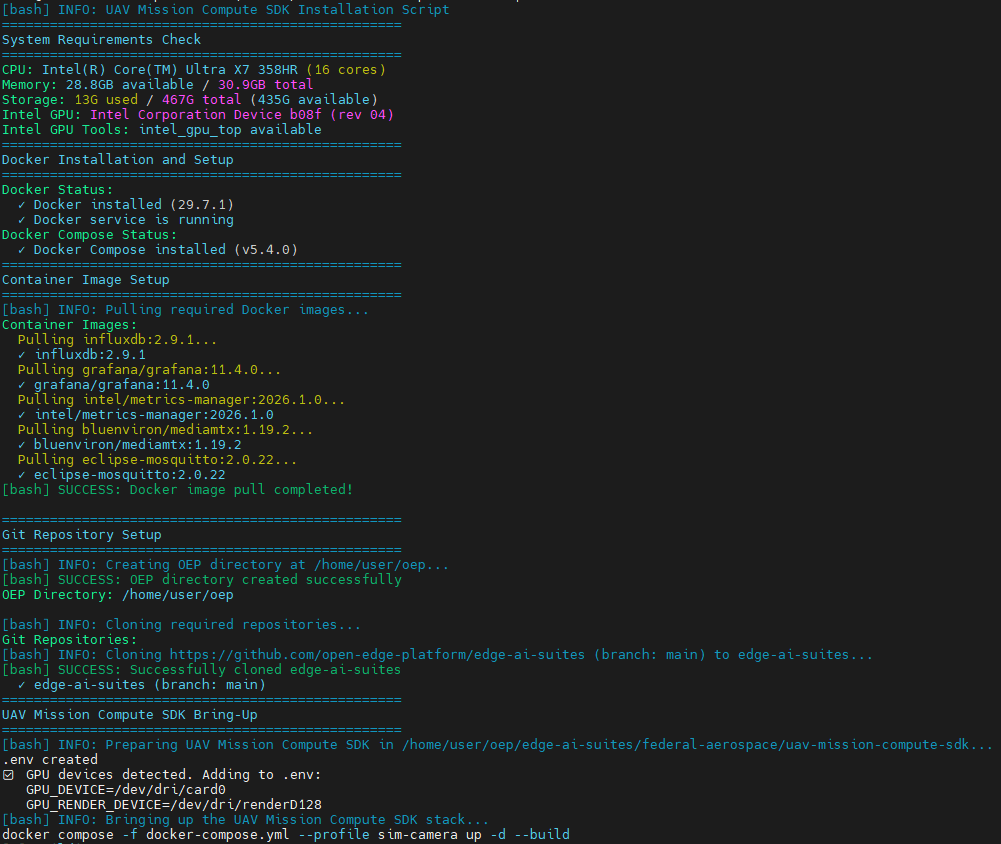
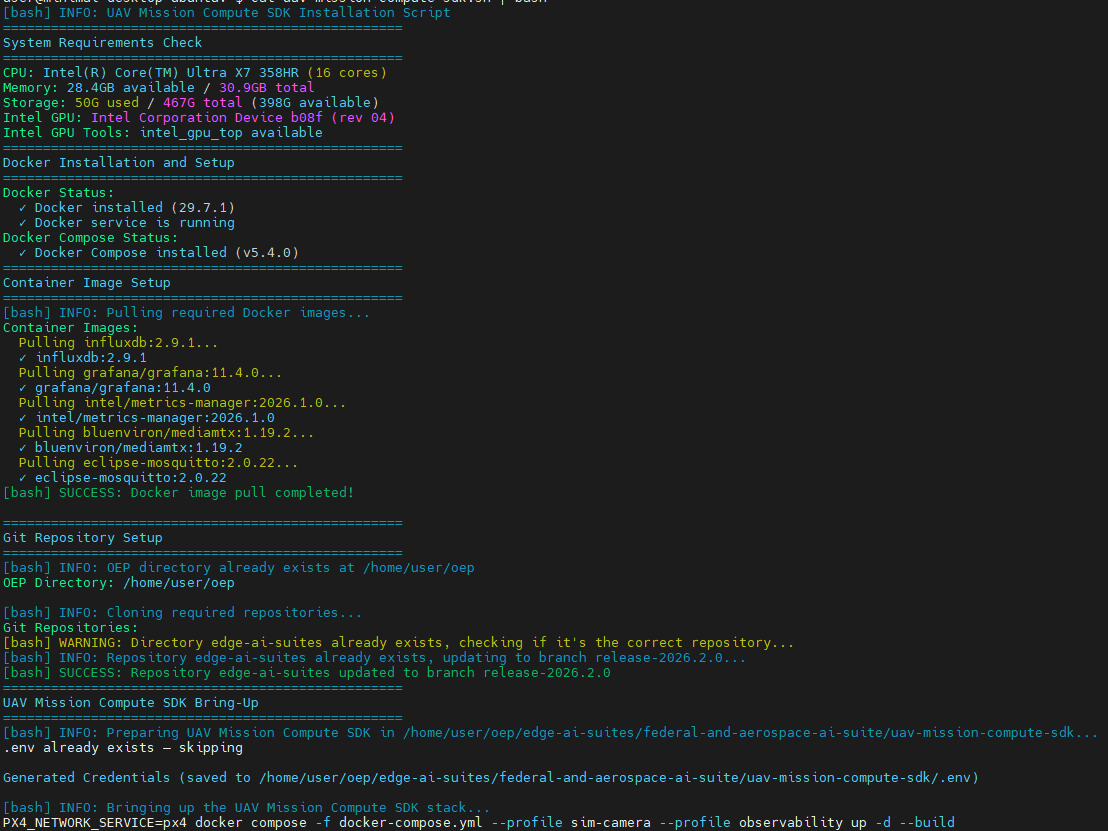
UAV SDK : Update paths in SDK doc/script (#3869)

Changed region(s): [[0.0, 0.0, 0.991, 1.0]]

diff --git a/federal-and-aerospace-ai-suite/uav-mission-compute-sdk/infra/bridges/companion/companion_bridge.py b/federal-and-aerospace-ai-suite/uav-mission-compute-sdk/infra/bridges/companion/companion_bridge.py
@@ -312,6 +312,15 @@ def rest_telemetry():
     return jsonify(_state)
 
 
+@rest_app.route("/state", methods=["GET", "POST"])
+def rest_state():
+    """Backward-compatible endpoint for clients expecting /state."""
+    return jsonify({
+        "success": True,
+        "state": _state,
+    })
+
+
 def _start_rest_server():
     log.info("REST API listening on port %d", REST_PORT)
     try:

diff --git a/metro-ai-suite/metro-sdk-manager/docs/user-guide/uav-mission-compute-sdk/get-started.md b/metro-ai-suite/metro-sdk-manager/docs/user-guide/uav-mission-compute-sdk/get-started.md
@@ -130,8 +130,8 @@ The UAV Mission Compute SDK integrates multiple technologies:
 
 After installation completes:
 
-1. Navigate to `$HOME/oep/edge-ai-suites/federal-aerospace/uav-mission-compute-sdk/` to explore the SDK
-2. Review [GETTING_STARTED.md](https://github.com/open-edge-platform/edge-ai-suites/blob/release-2026.2.0/federal-and-aerospace-ai-suite/uav-mission-compute-sdk/GETTING_STARTED.md) for USB camera setup and advanced configuration
+1. Navigate to `$HOME/oep/edge-ai-suites/federal-and-aerospace-ai-suite/uav-mission-compute-sdk/` to explore the SDK
+2. Review [get-started.md](https://github.com/open-edge-platform/edge-ai-suites/blob/release-2026.2.0/federal-and-aerospace-ai-suite/uav-mission-compute-sdk/docs/user-guide/get-started.md) for USB camera setup and advanced configuration
 3. Access Grafana dashboards at **http://localhost:3000** (admin/admin)
 4. Explore the REST API at **http://localhost:8080** for flight control commands
 
